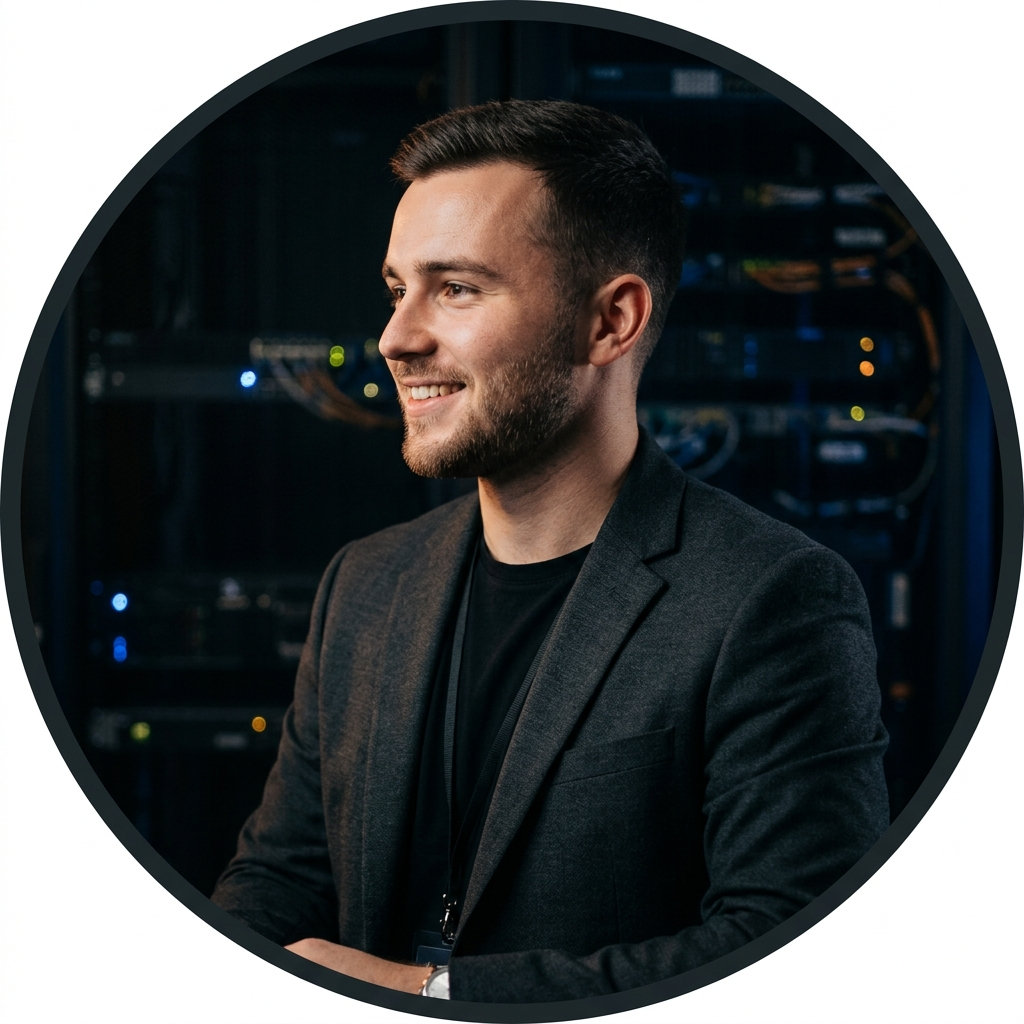
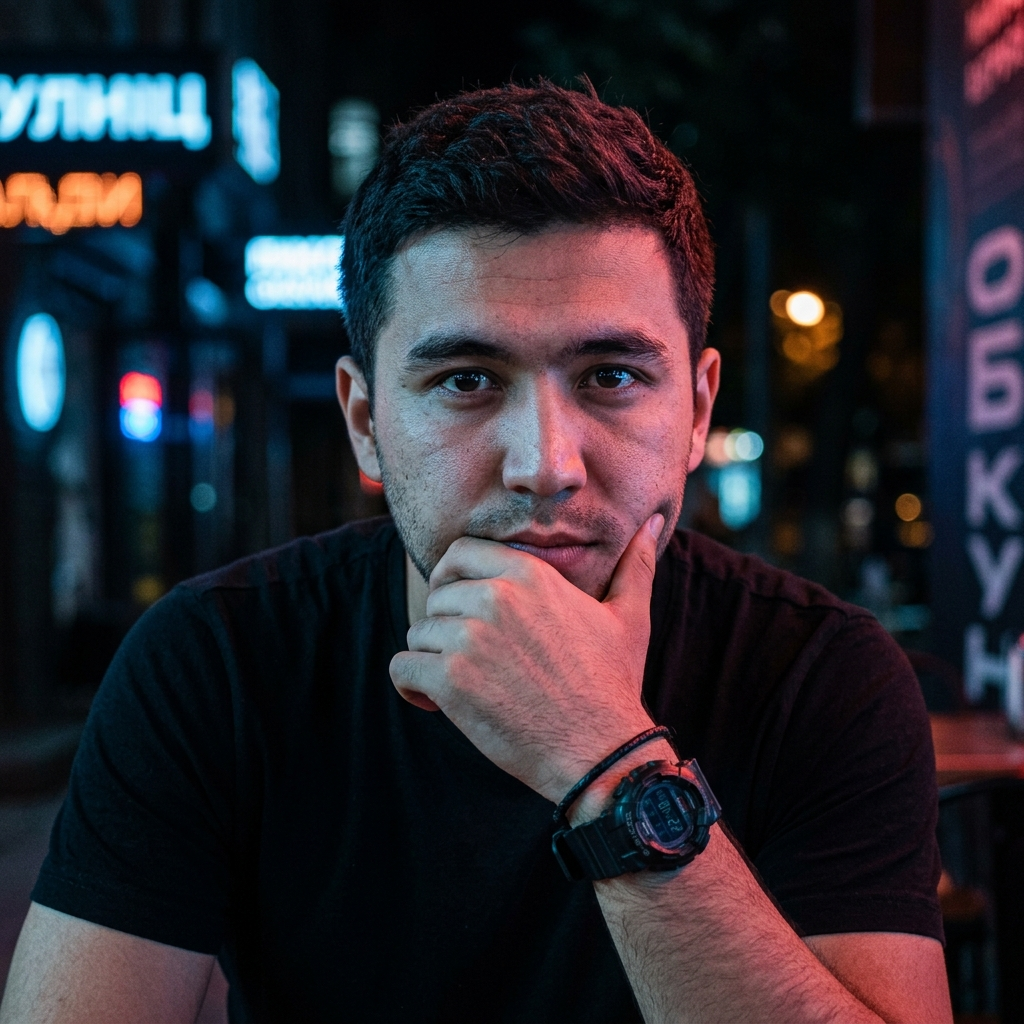
refactor: update personal branding and profile info
- Update name from "Muxriddinbek" to "Muxriddin"
- Update last name to "Ro'zimboyev" and increment age
- Standardize labels and UI text across components

diff --git a/src/data.ts b/src/data.ts
@@ -1,9 +1,9 @@
 import { ProfileData, StatItem, TimelineItem, SkillItem, SocialLinkItem } from './types';
 
 export const profileData: ProfileData = {
-  name: 'Muxriddinbek',
-  lastName: 'Tursunov', // A natural, professional Uzbek last name
-  age: 22,
+  name: 'Muxriddin',
+  lastName: "Ro'zimboyev", // Updated last name
+  age: 24,
   country: "O'zbekiston",
   city: 'Toshkent',
   profession: [
@@ -11,7 +11,7 @@ export const profileData: ProfileData = {
     'Kiberxavfsizlik Mutaxassisi',
     'AI Kontent Yaratuvchisi'
   ],
-  bio: "Assalomu alaykum! Men Muxriddinbek, axborot texnologiyalari va raqamli xavfsizlik sohasida professional tajribaga ega mutaxassisman. Mening asosiy maqsadim — zamonaviy tarmoq tizimlarini loyihalash, yuqori darajadagi kiberxavfsizlikni ta'minlash hamda sun'iy intellekt imkoniyatlaridan unumli foydalangan holda kreativ kontentlar yaratishdir. Har bir loyihaga mukammallik va xavfsizlik prizmasidan yondashaman.",
+  bio: "Assalomu alaykum! Men Muxriddin, axborot texnologiyalari va raqamli xavfsizlik sohasida professional tajribaga ega mutaxassisman. Mening asosiy maqsadim — zamonaviy tarmoq tizimlarini loyihalash, yuqori darajadagi kiberxavfsizlikni ta'minlash hamda sun'iy intellekt imkoniyatlaridan unumli foydalangan holda kreativ kontentlar yaratishdir. Har bir loyihaga mukammallik va xavfsizlik prizmasidan yondashaman.",
   experienceYears: 4,
   completedProjects: 48,
   certificatesCount: 15,
@@ -144,7 +144,7 @@ export const socialLinks: SocialLinkItem[] = [
   {
     id: 'linkedin',
     platform: 'LinkedIn',
-    username: 'Muxriddinbek Tursunov',
+    username: "Muxriddin Ro'zimboyev",
     url: 'https://linkedin.com',
     followers: '500+ aloqalar',
     colorClass: 'bg-[#0077b5]/10 text-[#0077b5] border-[#0077b5]/20 hover:bg-[#0077b5] hover:text-white',

diff --git a/src/components/Footer.tsx b/src/components/Footer.tsx
@@ -70,7 +70,7 @@ export const Footer: React.FC<FooterProps> = ({ isDarkMode }) => {
         <div className="relative mb-4 w-16 h-16 rounded-full p-1 overflow-hidden shadow-md bg-slate-900/10 border border-white/20">
           <img 
             src={profilePhoto} 
-            alt="Muxriddinbek" 
+            alt="Muxriddin Ro'zimboyev" 
             className="w-full h-full object-cover rounded-full object-top referrerpolicy"
             referrerPolicy="no-referrer"
           />
@@ -80,7 +80,7 @@ export const Footer: React.FC<FooterProps> = ({ isDarkMode }) => {
         <h4 className={`text-base font-bold font-mono tracking-wider mb-2 ${
           isDarkMode ? 'text-white' : 'text-slate-800'
         }`}>
-          MUXRIDDINBEK<span className={isDarkMode ? 'text-orange-500' : 'text-orange-600'}>.DEV</span>
+          MUXRIDDIN<span className={isDarkMode ? 'text-orange-500' : 'text-orange-600'}>.DEV</span>
         </h4>
 
         {/* Premium quote */}
@@ -114,7 +114,7 @@ export const Footer: React.FC<FooterProps> = ({ isDarkMode }) => {
         <p className={`text-[10px] font-mono tracking-wider ${
           isDarkMode ? 'text-slate-500' : 'text-slate-400'
         }`}>
-          &copy; {new Date().getFullYear()} Muxriddinbek Portfolio. Barcha huquqlar himoyalangan.
+          &copy; {new Date().getFullYear()} Muxriddin Portfolio. Barcha huquqlar himoyalangan.
         </p>
 
       </div>

diff --git a/src/components/HomeSection.tsx b/src/components/HomeSection.tsx
@@ -109,7 +109,7 @@ export const HomeSection: React.FC<HomeSectionProps> = ({ isDarkMode }) => {
               <img 
                 id="profile-img"
                 src={profilePhoto} 
-                alt="Muxriddinbek Tursunov" 
+                alt="Muxriddin Ro'zimboyev" 
                 className="w-full h-full object-cover rounded-full object-top transform hover:scale-105 transition-transform duration-500 referrerpolicy"
                 referrerPolicy="no-referrer"
               />
@@ -192,7 +192,7 @@ export const HomeSection: React.FC<HomeSectionProps> = ({ isDarkMode }) => {
             <p className={`text-lg sm:text-2xl font-mono tracking-wide ${
               isDarkMode ? 'text-slate-300' : 'text-slate-600'
             }`}>
-              I am a:{' '}
+              Kasbi:{' '}
               <span className={`font-bold typing-caret pb-1 border-b-2 ${
                 isDarkMode 
                   ? 'text-orange-500 border-orange-500/40 glow-text-orange' 

diff --git a/src/components/ContactSection.tsx b/src/components/ContactSection.tsx
@@ -234,7 +234,7 @@ export const ContactSection: React.FC<ContactSectionProps> = ({ isDarkMode }) =>
                                 ? 'bg-slate-950/80 border-slate-800 text-slate-200 focus:border-orange-500/50 focus:ring-2 focus:ring-orange-500/10' 
                                 : 'bg-slate-50 border-slate-200 text-slate-800 focus:border-orange-600/30 focus:ring-2 focus:ring-orange-600/10'
                           }`}
-                          placeholder="Muxriddinbek"
+                          placeholder="Muxriddin"
                         />
                         {errors.name && (
                           <span className="text-[10px] text-red-500 flex items-center gap-1 mt-1 font-semibold">

diff --git a/src/App.tsx b/src/App.tsx
@@ -92,7 +92,7 @@ export default function App() {
 
               {/* Loader percentage */}
               <h2 className="text-2xl font-mono font-bold tracking-wider text-white mb-2">
-                MUXRIDDINBEK<span className="text-orange-500">.DEV</span>
+                MUXRIDDIN<span className="text-orange-500">.DEV</span>
               </h2>
 
               <p className="text-xs font-mono tracking-widest text-orange-500/60 uppercase mb-6 animate-pulse">
